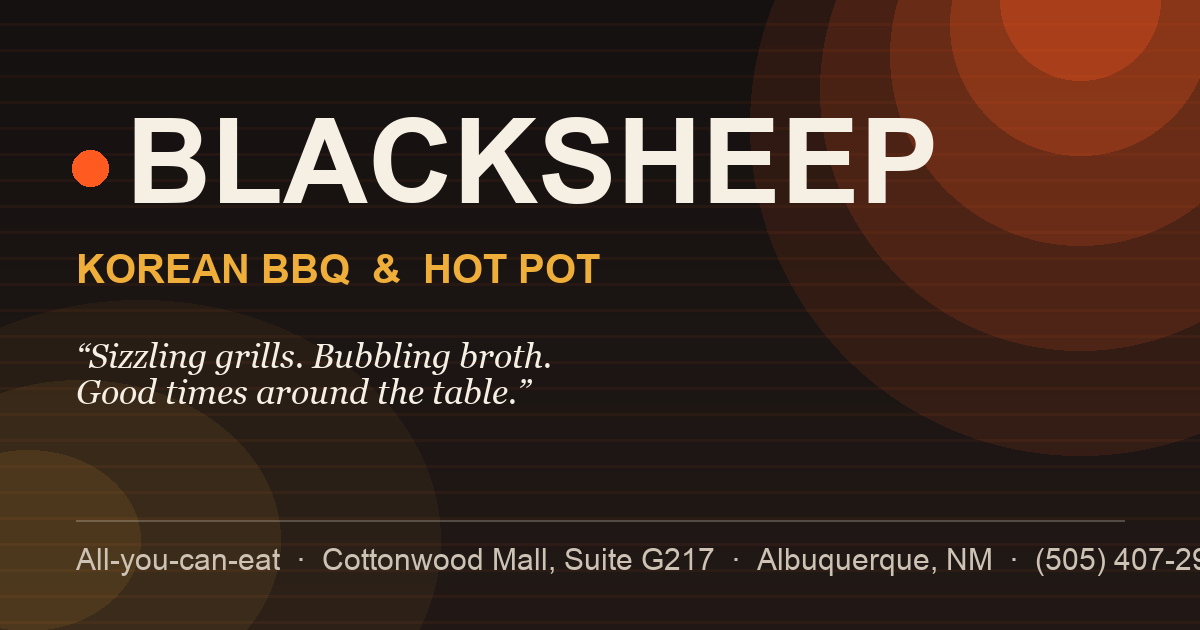
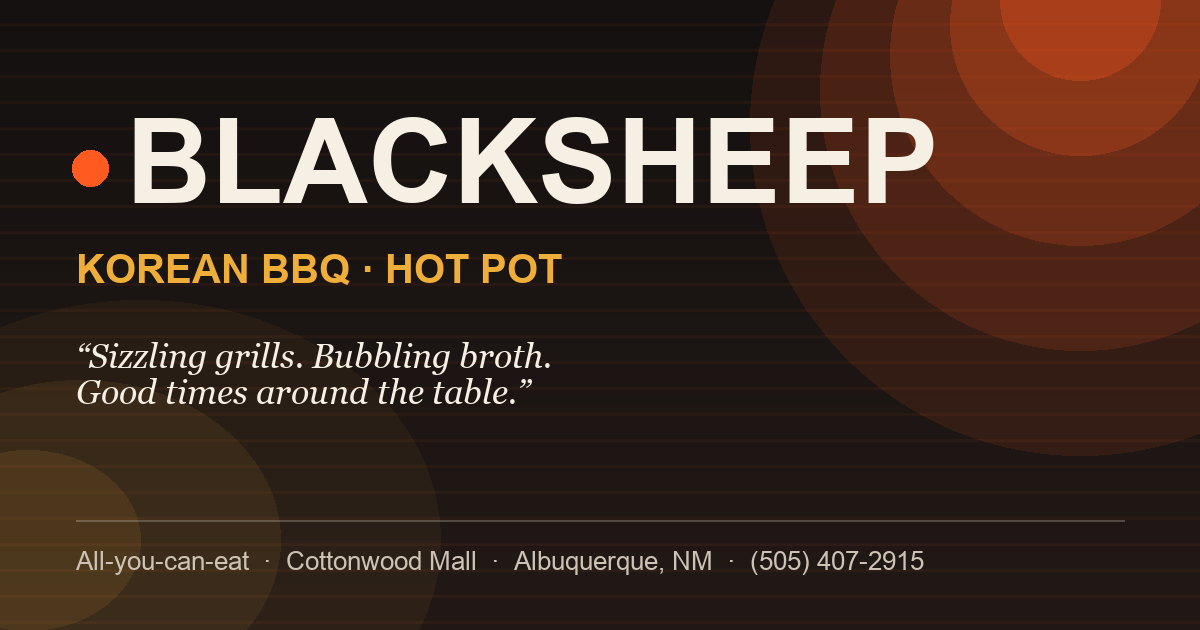
og.png: fit footer line in-canvas, fix ampersand spacing

Changed region(s): [[0.0617, 0.8746, 0.8325, 0.9048], [0.3083, 0.3921, 0.4933, 0.4524], [0.8633, 0.8746, 1.0, 0.9048]]

diff --git a/make_og.py b/make_og.py
@@ -20,7 +20,7 @@ def font(path_names, size):
 
 f_word = font(["Arial Bold.ttf", "Helvetica.ttc"], 118)
 f_sub  = font(["Arial Bold.ttf", "Helvetica.ttc"], 40)
-f_line = font(["Arial.ttf", "Helvetica.ttc"], 30)
+f_line = font(["Arial.ttf", "Helvetica.ttc"], 26)
 f_tag  = font(["Georgia Italic.ttf", "Georgia.ttf"], 34)
 
 img = Image.new("RGB", (W, H), "#141110")
@@ -48,14 +48,14 @@ CREAM = (246, 239, 228, 255); MIST = (205, 194, 180, 255); EMBER = (255, 90, 31,
 # ember dot + wordmark
 d.ellipse((72, 150, 108, 186), fill=EMBER)
 d.text((126, 96), "BLACKSHEEP", font=f_word, fill=CREAM)
-d.text((76, 246), "KOREAN BBQ  &  HOT POT", font=f_sub, fill=GOLD)
+d.text((76, 246), "KOREAN BBQ \u00b7 HOT POT", font=f_sub, fill=GOLD)
 
 # tagline (their published slogan words)
 d.text((76, 336), "\u201cSizzling grills. Bubbling broth.\nGood times around the table.\u201d", font=f_tag, fill=(246, 239, 228, 210))
 
 # bottom facts line
 d.line([(76, 520), (1124, 520)], fill=(246, 239, 228, 60), width=2)
-d.text((76, 542), "All-you-can-eat  ·  Cottonwood Mall, Suite G217  ·  Albuquerque, NM  ·  (505) 407-2915", font=f_line, fill=MIST)
+d.text((76, 546), "All-you-can-eat  ·  Cottonwood Mall  ·  Albuquerque, NM  ·  (505) 407-2915", font=f_line, fill=MIST)
 
 img.save(OUT, "PNG")
 print("wrote", OUT, os.path.getsize(OUT), "bytes")
